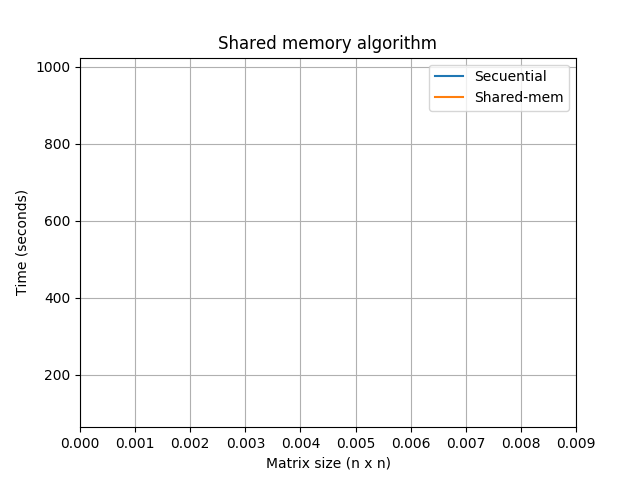
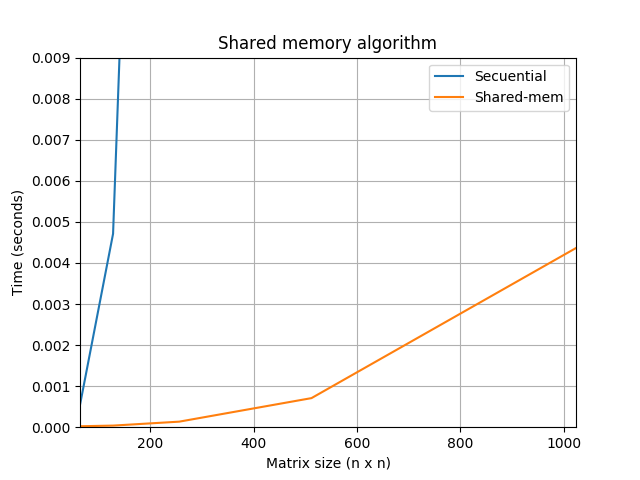
markdown doc

diff --git a/parcial2/segunda_parte/plotting.py b/parcial2/segunda_parte/plotting.py
@@ -25,7 +25,7 @@ matSize = [64,128,256,512,1024]
 fig1 = plt.gcf()
 secExeTime = [ans64[1], ans128[1], ans256[1], ans512[1], ans1024[1]]
 #print secExeTime
-plt.axis([0.000000, 5, 64, 1024])
+plt.axis([64, 1024, 0.000, 5.000])
 plt.grid(True)
 plt.title('Secuential algorithm')
 plt.ylabel('Time (seconds)')
@@ -37,7 +37,7 @@ fig1.savefig('images/secuential.png', format="png")
 fig2 = plt.gcf()
 globalExeTime = [ans64[2], ans128[2], ans256[2], ans512[2], ans1024[2]]
 #print globalExeTime
-plt.axis([0.000, 0.020, 64, 1024])
+plt.axis([64, 1024, 0.000, 0.020])
 plt.grid(True)
 plt.title('Global memory algorithm')
 plt.ylabel('Time (seconds)')
@@ -51,7 +51,7 @@ fig2.savefig('images/global.png', format="png")
 fig3 = plt.gcf()
 sharedExeTime = [ans64[3], ans128[3], ans256[3], ans512[3], ans1024[3]]
 #print sharedExeTime
-plt.axis([0.000, 0.009, 64, 1024])
+plt.axis([64, 1024, 0.000, 0.009])
 plt.grid(True)
 plt.title('Shared memory algorithm')
 plt.ylabel('Time (seconds)')
